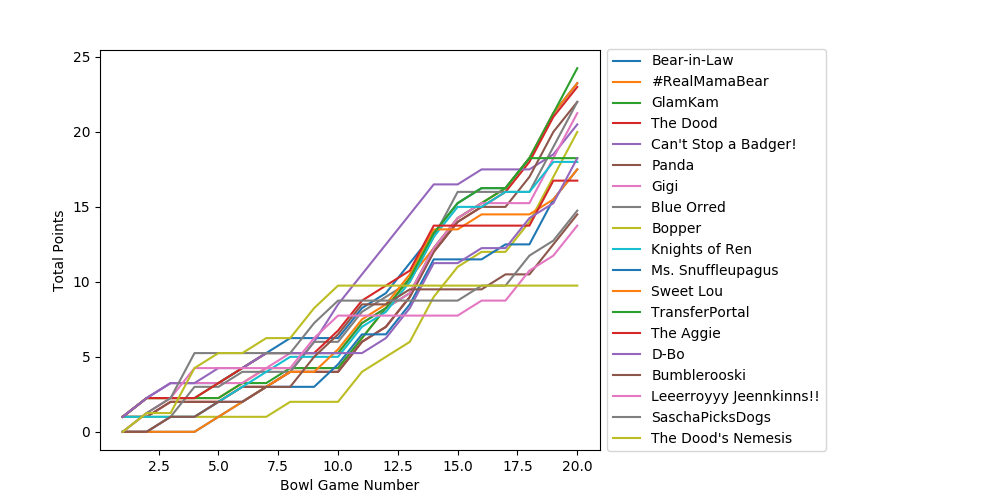
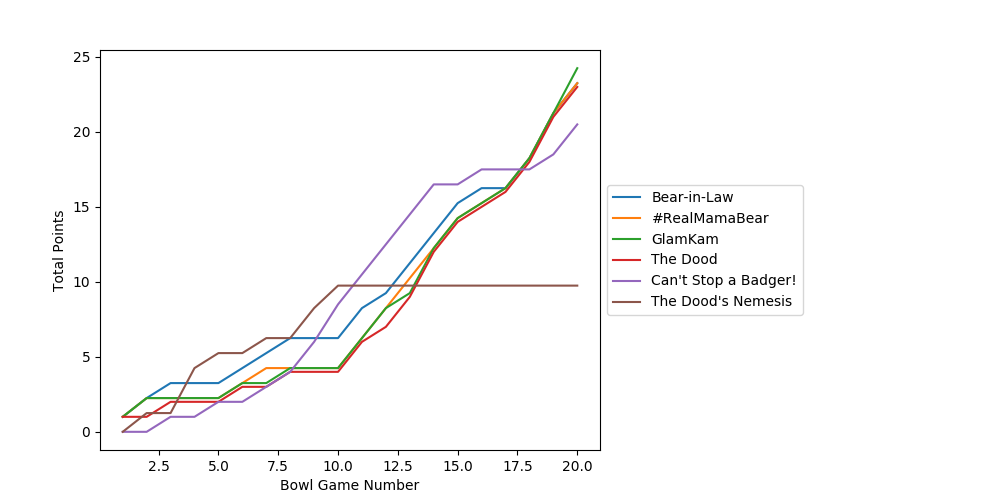
2021-2022 Bowl Pool - Highlights added

Changed region(s): [[0.124, 0.21, 0.589, 0.87], [0.62, 0.09, 0.837, 0.9]]

diff --git a/bowl_pool/2021-2022/rankings.html b/bowl_pool/2021-2022/rankings.html
@@ -364,7 +364,7 @@ ul.auto-toc {
 
 
 <div class="line-block">
-<div class="line"><em>Last updated:  2022-01-05 10:36:50</em></div>
+<div class="line"><em>Last updated:  2022-01-05 10:43:37</em></div>
 <div class="line"><em>Last bowl scored:  SUGAR BOWL (Ole Miss vs. Baylor)</em></div>
 </div>
 <div class="line-block">
@@ -372,20 +372,20 @@ ul.auto-toc {
 <div class="line">2. <strong>#RealMamaBear 23.25</strong></div>
 <div class="line">2. <strong>Bear-in-Law 23.25</strong></div>
 <div class="line">4. <strong>The Dood 23.0</strong></div>
-<div class="line">5. <strong>Blue Orred 22.0</strong></div>
-<div class="line">5. <strong>Panda 22.0</strong></div>
-<div class="line">7. <strong>Gigi 21.25</strong></div>
+<div class="line">5. Blue Orred 22.0</div>
+<div class="line">5. Panda 22.0</div>
+<div class="line">7. Gigi 21.25</div>
 <div class="line">8. <strong>Can't Stop a Badger! 20.5</strong></div>
-<div class="line">9. <strong>Bopper 20.0</strong></div>
-<div class="line">10. <strong>D-Bo 18.25</strong></div>
-<div class="line">10. <strong>TransferPortal 18.25</strong></div>
-<div class="line">12. <strong>Knights of Ren 18.0</strong></div>
-<div class="line">13. <strong>Ms. Snuffleupagus 17.5</strong></div>
-<div class="line">13. <strong>Sweet Lou 17.5</strong></div>
-<div class="line">15. <strong>The Aggie 16.75</strong></div>
-<div class="line">16. <strong>SaschaPicksDogs 14.75</strong></div>
-<div class="line">17. <strong>Bumblerooski 14.5</strong></div>
-<div class="line">18. <strong>Leeerroyyy Jeennkinns!! 13.75</strong></div>
+<div class="line">9. Bopper 20.0</div>
+<div class="line">10. D-Bo 18.25</div>
+<div class="line">10. TransferPortal 18.25</div>
+<div class="line">12. Knights of Ren 18.0</div>
+<div class="line">13. Ms. Snuffleupagus 17.5</div>
+<div class="line">13. Sweet Lou 17.5</div>
+<div class="line">15. The Aggie 16.75</div>
+<div class="line">16. SaschaPicksDogs 14.75</div>
+<div class="line">17. Bumblerooski 14.5</div>
+<div class="line">18. Leeerroyyy Jeennkinns!! 13.75</div>
 <div class="line">19. <strong>The Dood's Nemesis 9.75</strong></div>
 </div>
 </div>

diff --git a/bowl_pool/2021-2022/index.html b/bowl_pool/2021-2022/index.html
@@ -365,7 +365,7 @@ ul.auto-toc {
 
 <p><strong>2021-2022 Bowl Pool</strong></p>
 <div class="line-block">
-<div class="line"><em>Last updated:  2022-01-05 10:36:50</em></div>
+<div class="line"><em>Last updated:  2022-01-05 10:43:38</em></div>
 <div class="line"><em>Last bowl scored:  SUGAR BOWL (Ole Miss vs. Baylor)</em></div>
 </div>
 <ul class="simple">
